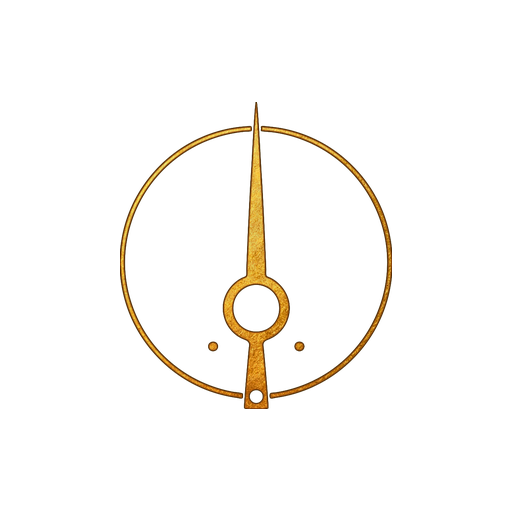
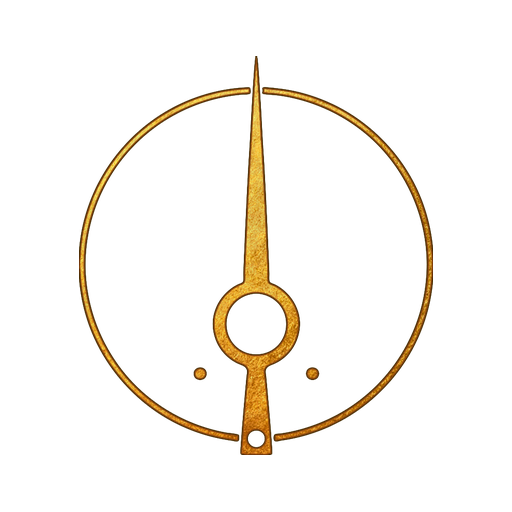
Add files via upload

diff --git a/public/sw.js b/public/sw.js
@@ -1,12 +1,12 @@
-const CACHE_NAME = 'nextus-v4';
+const CACHE_NAME = 'nextus-v5';
 
 const SHELL_ASSETS = [
   '/',
   '/manifest.json',
   '/favicon.svg',
-  '/icon-192-v3.png',
-  '/icon-512-v3.png',
-  '/apple-touch-icon-v3.png',
+  '/icon-192.png',
+  '/icon-512.png',
+  '/apple-touch-icon.png',
 ];
 
 // Install: cache shell assets

diff --git a/index.html b/index.html
@@ -22,7 +22,7 @@
     <!-- Favicon -->
     <link rel="icon" type="image/svg+xml" href="/favicon.svg" />
     <link rel="alternate icon" href="/favicon.ico" />
-    <link rel="apple-touch-icon" href="/apple-touch-icon-v3.png" />
+    <link rel="apple-touch-icon" href="/apple-touch-icon.png" />
     <link rel="manifest" href="/manifest.json" />
     <meta name="theme-color" content="#FAFAF7" />
 